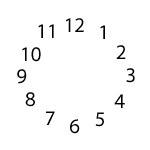
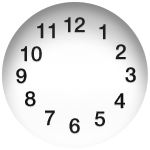
3.2

diff --git a/Resources/DoubleClockWidget.js b/Resources/DoubleClockWidget.js
@@ -7,6 +7,7 @@ var opAcc = deltaOp * 0.1;
 var perc = 0.8;
 var width;
 var height;
+var updated = false;
 
 //images
 var bgrImage;
@@ -68,11 +69,11 @@ function drawWatches(wData, drawArrow, angle, amTime)
   var watchesY = wData.y;
   var watchesSize = wData.size; 
   var centerX = watchesX + watchesSize / 2;
-  var centerY = watchesY + watchesSize / 2;
-  //Ti.API.info("Inc" + timeIntervals + "  " + states + " " + ops);
+  var centerY = watchesY + 2 +  watchesSize / 2;
+  //Ti.API.info("Inc" + centerX + "  " + centerY);
   ctx.drawImage(clockBgr,watchesX,watchesY,watchesSize, watchesSize);  
 
-  var watchesRad = /*watchesSize * (250 - 18) / 500*/71;
+  var watchesRad = /*watchesSize * (250 - 18) / 500*/73;
   var hasFadeOut = false;
   for(var idx = 0; idx < timeIntervals.length; ++idx)
   {
@@ -98,13 +99,14 @@ function drawWatches(wData, drawArrow, angle, amTime)
   	var begAngle = angles[1];
     var endAngle = angles[0];
      ctx.beginPath();
+     ctx.lineWidth = 1;
     ctx.moveTo(centerX, centerY); 
-    ctx.lineTo(centerX + watchesRad * Math.cos(begAngle), centerY + watchesRad * Math.sin(begAngle));   
+    ctx.lineTo(centerX + Math.floor(watchesRad * Math.cos(begAngle)), centerY + Math.floor(watchesRad * Math.sin(begAngle)));   
      
     ctx.arc(centerX, centerY, watchesRad,begAngle,endAngle, true);
-    ctx.moveTo(centerX + watchesRad * Math.cos(endAngle), centerY + watchesRad * Math.sin(endAngle));
+    ctx.moveTo(centerX + Math.floor(watchesRad * Math.cos(endAngle)), centerY + Math.floor(watchesRad * Math.sin(endAngle)));
     ctx.lineTo(centerX, centerY);  
-    ctx.fillStyle = 'rgba(229,131,127, ' + opacity + ')';//'#e5837f';
+    ctx.fillStyle = 'rgba(171,171,167, ' + opacity + ')';//'#e5837f';
     ctx.fill();  
     
     if(states[idx] === 0 && !hasFadeOut){
@@ -127,7 +129,7 @@ function drawWatches(wData, drawArrow, angle, amTime)
     
     
   }
-  ctx.drawImage(!amTime ? ticksImg1 : ticksImg2, watchesX,watchesY,watchesSize, watchesSize);
+  ctx.drawImage(!amTime ? ticksImg1 : ticksImg2, watchesX,watchesY,watchesSize + 1, watchesSize);
  
   if(drawArrow) 
   {
@@ -154,14 +156,14 @@ function drawWatches(wData, drawArrow, angle, amTime)
     
     ctx.beginPath();  
     ctx.arc(centerX, centerY, watchesSize * arrowRadFrac, 0, Math.PI * 2);
-    ctx.fillStyle = "rgb(206,23,23)";
+    ctx.fillStyle = "#E10A1B";
     ctx.fill();
     
     ctx.lineWidth = 4;
     ctx.beginPath();
     ctx.moveTo(centerX, centerY);
     ctx.lineTo(centerX + arrowLen * Math.cos(angle), centerY + arrowLen * Math.sin(angle));
-    ctx.strokeStyle = "rgb(206,23,23)";
+    ctx.strokeStyle = "#E10A1B";
     ctx.stroke();
   }
   
@@ -198,6 +200,7 @@ function drawCanvas()
   	return;
   } */
   angle = newAngle;
+  ctx.clearRect(0,0,width, height);
   //ctx.drawImage(bgrImage,0,0,width, height);
   drawWatches(watchesData[0], am, angle, 0);
   drawWatches(watchesData[1], !am, angle, 1);
@@ -236,6 +239,7 @@ window.onload = function() {
 
     width = canvas.width;
     height = canvas.height;
+    Ti.API.info(width + '+ ' + height);
     /*centerX = width / 2;
     centerY = height / 2;
     watchesSize = (width > height ? height : width) * perc;
@@ -253,18 +257,21 @@ window.onload = function() {
         y: width * leftPerc,
         size: width * (0.5 - 2 * leftPerc)
     };*/
+   var h  =150;
    var leftW = {
-        x: 0,
-        y: 0,
-        size: height
+        x: 1,
+        y: 1,
+        size: h
     };
     watchesData.push(leftW);   
     var rightW = {
-        x: height + 30,
-        y: 0,
-        size: height
+        x: h + 33,
+        y: 1,
+        size: h
     };
+    //Ti.API.info(height, width);
     watchesData.push(rightW);   
+    //Ti.API.info(watchesData);
     //images 
     //bgrImage = new Image();
     //bgrImage.src = './images/background.png';
@@ -285,7 +292,7 @@ window.onload = function() {
    // glassImg.src = './images/clock-glace.png';
 
     mountImg = new Image();
-    mountImg.src = './images/mount.png';
+    mountImg.src = './images/mount@2x.png';
     var date = new Date();
   	var hours = date.getHours();
   	var minutes = date.getMinutes();
@@ -312,7 +319,7 @@ window.onload = function() {
 		  	ops.push(o);
 		  	opsSpeeds.push(deltaOp);
 		  }
-		  
+		updated = true;  
     	//alert("" + timeIntervals[0]);
     });
     

diff --git a/Resources/ui/common/EditView.js b/Resources/ui/common/EditView.js
@@ -74,8 +74,8 @@ function EditView() {
 	  left:sideOffset,
 	 // top:'6%',
 	  //width:'70%' ,
-	  width:'330px',
-      height: '150px'  , backgroundColor : 'transparent'        
+	  width:'332px',
+      height: '152px'  , backgroundColor : 'transparent'        
     });
 	 var first = Boolean(true);
 	//self.layout = 'vertical';
@@ -89,8 +89,8 @@ function EditView() {
 	var sstates = [1,1,1,1];
 	self.addEventListener('postlayout',function(e)
 	{
-		var w = 165;
-		var h = 75;
+		var w = 166;
+		var h = 76;
 		var currH = Ti.Platform.displayCaps.platformHeight * 0.2;
 		//webView.reload();
 		//webView.repaint(); 

diff --git a/Resources/ClockWidget.js b/Resources/ClockWidget.js
@@ -85,6 +85,7 @@ function drawCanvas()
   	return;
   } 
   angle = newAngle;
+  ctx.clearRect(0,0,width, height);
   ctx.drawImage(bgrImage,0,0,width, height);
   ctx.drawImage(clockBgr,watchesX,watchesY,watchesSize, watchesSize);
   
